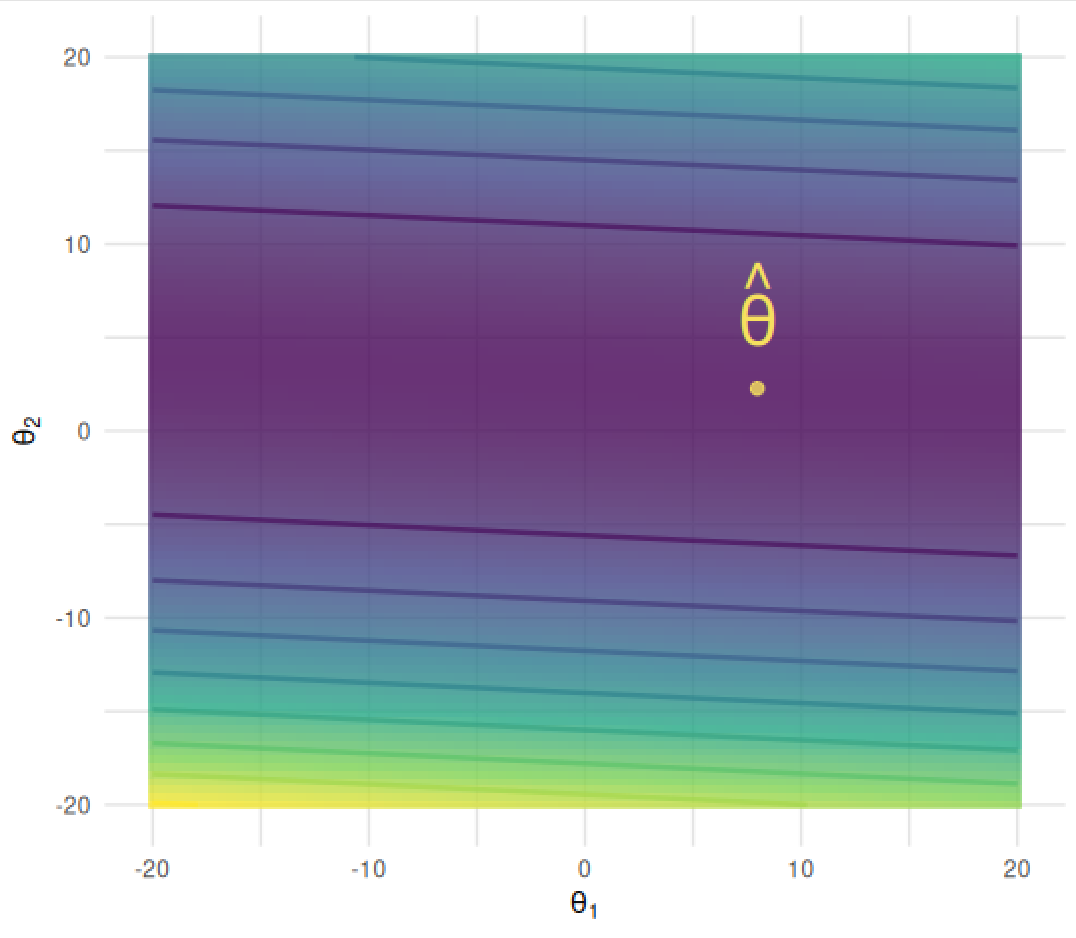
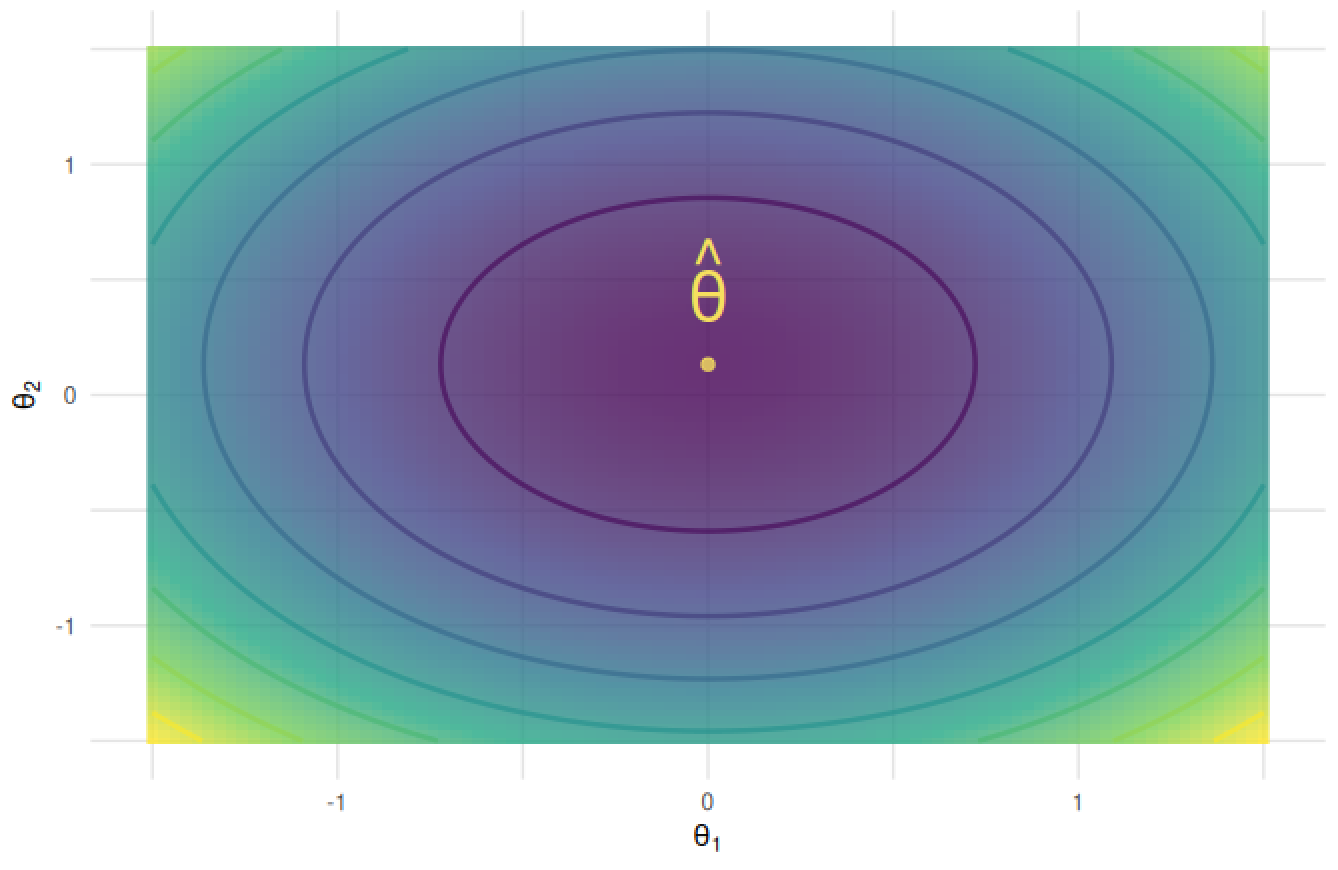
Fixed ridge visualization

diff --git a/slides/06-constrained/slides-optim-rest-6-regularity-conditions.tex b/slides/06-constrained/slides-optim-rest-6-regularity-conditions.tex
@@ -90,13 +90,13 @@ Then $\xv^*$ is a global solution to the problem
 \begin{framei}[fs=small]{Ridge regression -- visualization}
 \item \textbf{Visualization:} see additional material
 \vfill
-\imageC[0.50]{figure_man/ridge_original.png}
+\imageC[0.50]{figure/ridge-unregularized.png}
 \item Quadratic loss for the \texttt{cars} dataset without penalty
 \vfill
 \splitVCC{
-\imageC[0.9]{figure_man/ridge_formulation1.png}
+\imageC[0.9]{figure/ridge-penalized.png}
 }{
-\imageC[0.9]{figure_man/ridge_formulation2.png}
+\imageC[0.9]{figure/ridge-constrained.png}
 }
 \item Left: loss for ridge regression with penalty term\\
 Right: loss for ridge regression with corresponding constraint
